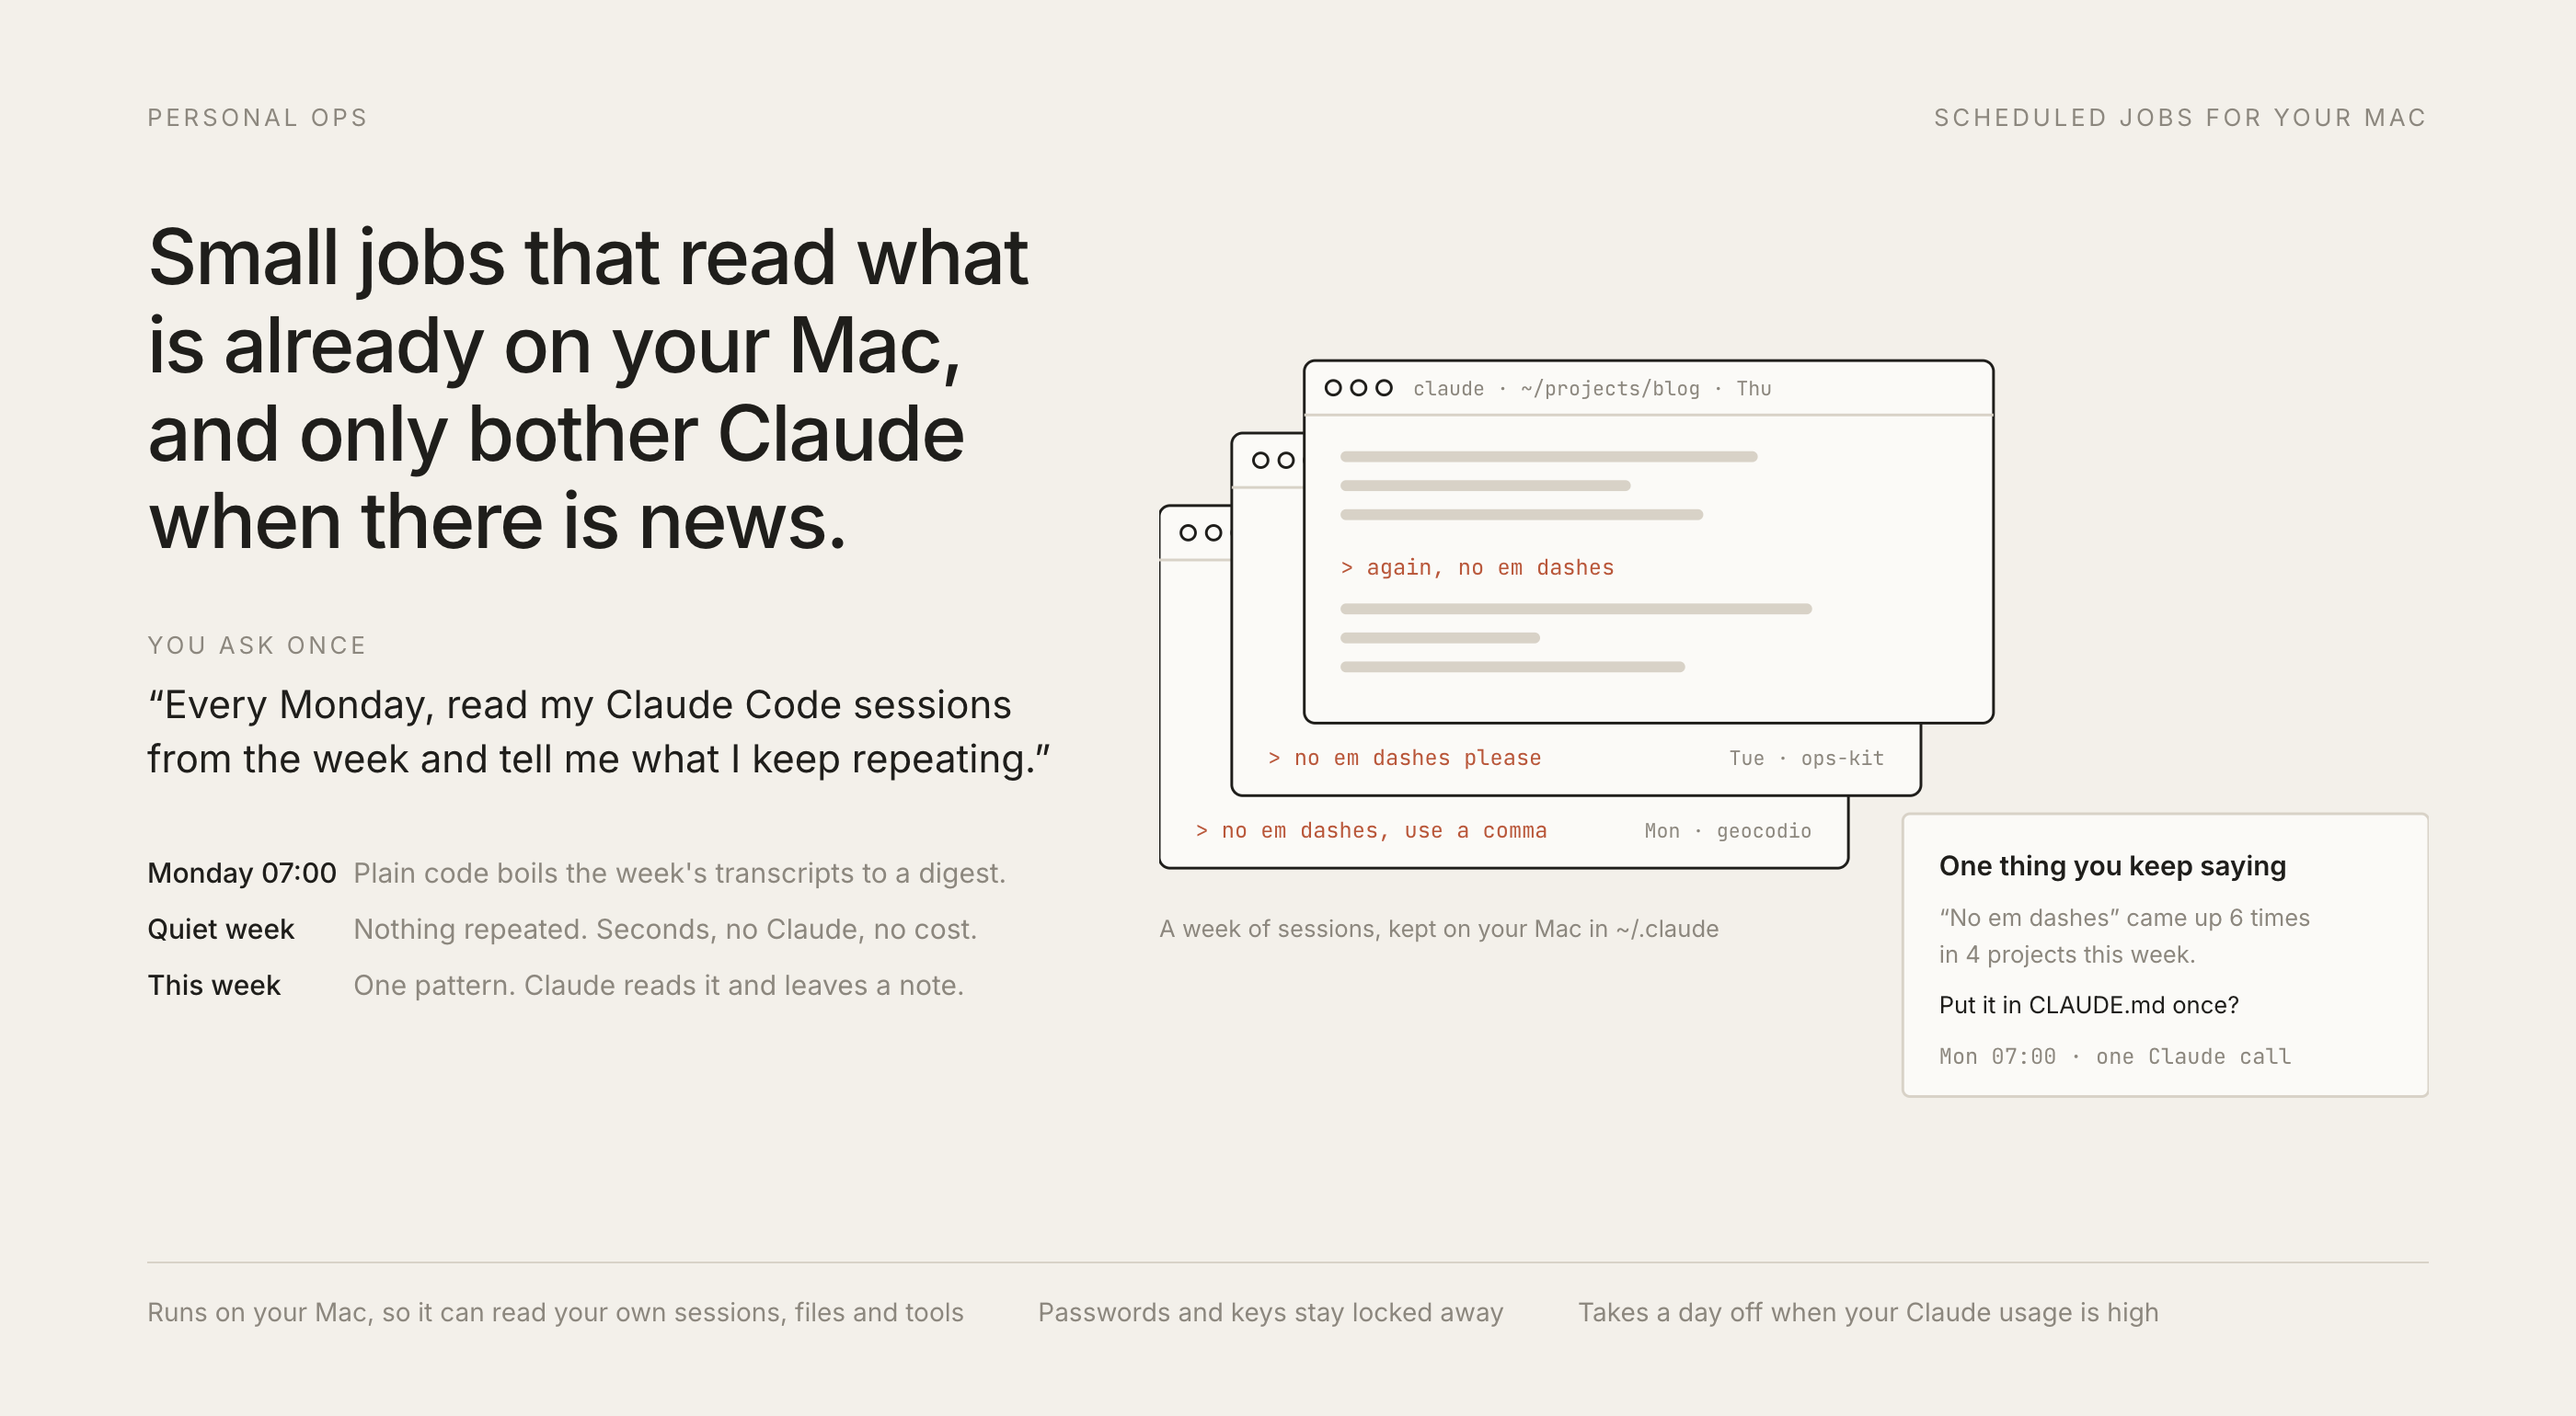
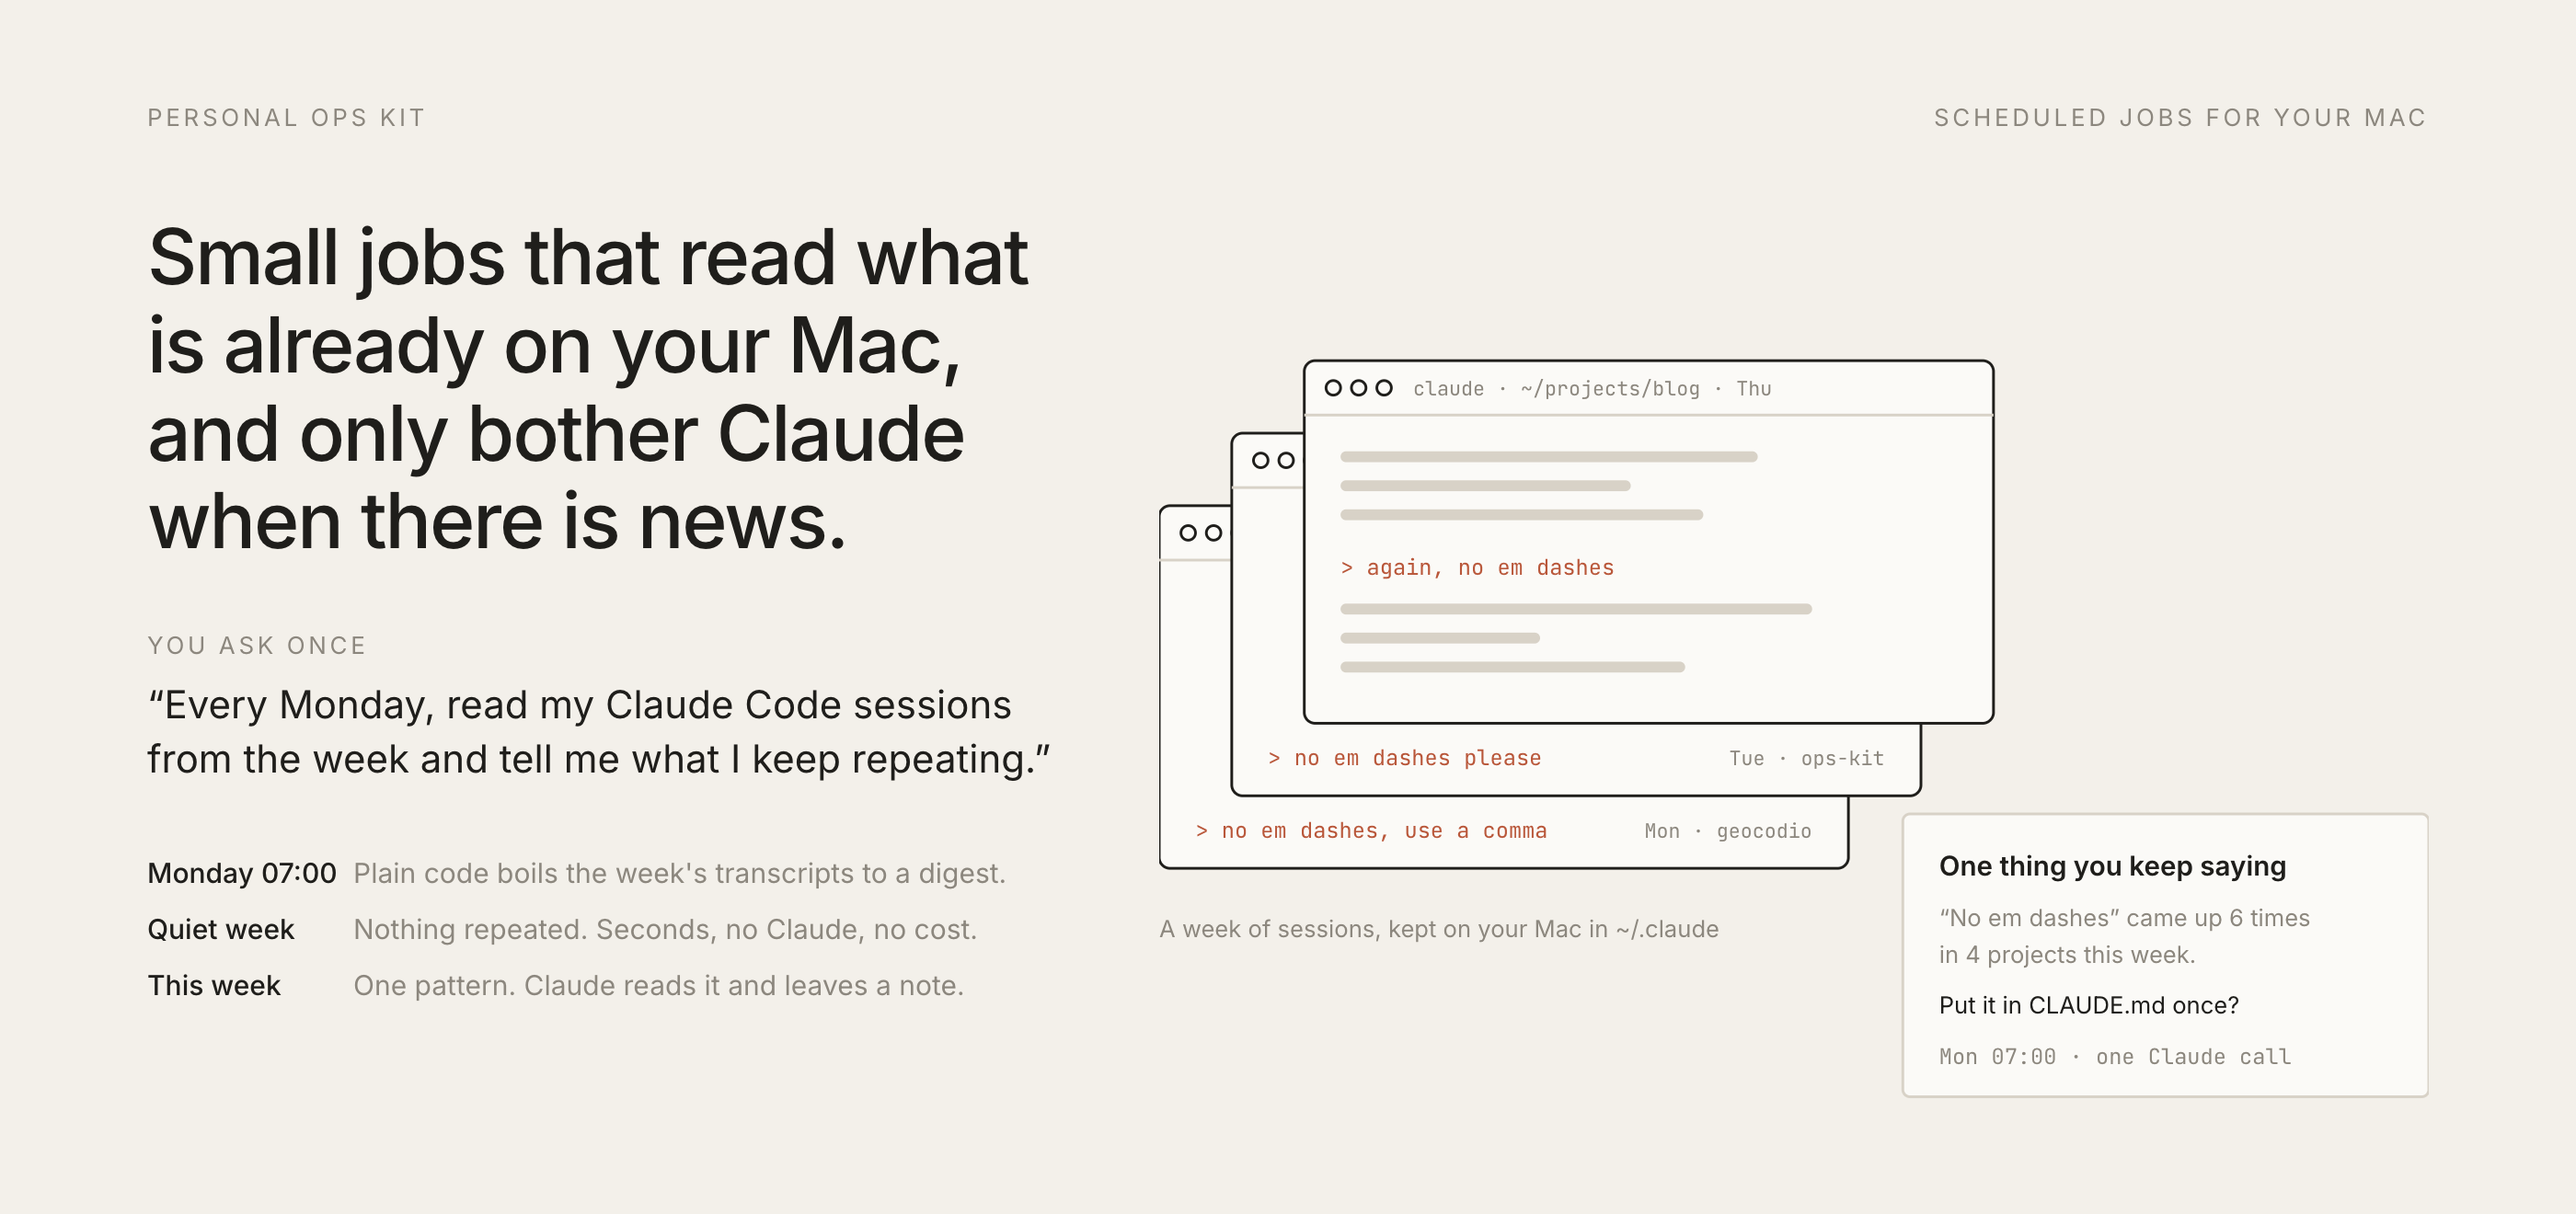
docs(readme): name the kit Personal Ops Kit and show the dashboard
The overview image now carries the kit's full name and drops the footer
captions, which were too small to read at README width. The README loses
its redundant heading, since the image opens the page, and gains a
dashboard screenshot under the after-install steps.

diff --git a/docs/overview.html b/docs/overview.html
@@ -1,7 +1,7 @@
 <!doctype html>
 <!-- Source for overview.png. Regenerate with:
      "/Applications/Google Chrome.app/Contents/MacOS/Google Chrome" --headless --hide-scrollbars \
-       --window-size=1400,770 --force-device-scale-factor=2 --virtual-time-budget=3000 \
+       --window-size=1400,660 --force-device-scale-factor=2 --virtual-time-budget=3000 \
        --screenshot=docs/overview.png docs/overview.html -->
 <html lang="en">
 <head>
@@ -10,7 +10,7 @@
 <style>
   :root { --paper:#F3F0EA; --card:#FBFAF7; --ink:#1F1E1B; --muted:#8C877E; --rule:#D8D2C7; --accent:#B9573A; }
   * { box-sizing:border-box; margin:0; }
-  html, body { width:1400px; height:770px; background:var(--paper); }
+  html, body { width:1400px; height:660px; background:var(--paper); }
   body { font-family:Inter, sans-serif; color:var(--ink); padding:56px 80px; -webkit-font-smoothing:antialiased; position:relative; }
   .top { display:flex; justify-content:space-between; font-size:13px; letter-spacing:.14em; text-transform:uppercase; color:var(--muted); }
   .grid { display:grid; grid-template-columns:520px 1fr; gap:30px; margin-top:44px; }
@@ -22,11 +22,10 @@
   svg { display:block; margin-top:8px; }
   svg text { font-family:Inter, sans-serif; }
   svg .mono { font-family:"JetBrains Mono", monospace; }
-  .foot { position:absolute; left:80px; right:80px; bottom:48px; display:flex; gap:40px; font-size:14px; color:var(--muted); border-top:1px solid var(--rule); padding-top:18px; }
 </style>
 </head>
 <body>
-  <div class="top"><span>personal ops</span><span>scheduled jobs for your Mac</span></div>
+  <div class="top"><span>Personal Ops Kit</span><span>scheduled jobs for your Mac</span></div>
   <div class="grid">
     <div>
       <h1>Small jobs that read what is already on your Mac, and only bother Claude when there is news.</h1>
@@ -89,10 +88,5 @@
     </svg>
   </div>
 
-  <div class="foot">
-    <span>Runs on your Mac, so it can read your own sessions, files and tools</span>
-    <span>Passwords and keys stay locked away</span>
-    <span>Takes a day off when your Claude usage is high</span>
-  </div>
 </body>
 </html>

diff --git a/README.md b/README.md
@@ -1,5 +1,3 @@
-# personal ops
-
 ![Ask once, and every Monday your Mac reads the week of Claude Code sessions stored on it. Three terminal windows each show the same correction, and Claude leaves a note: "No em dashes" came up 6 times in 4 projects, put it in CLAUDE.md once?](docs/overview.png)
 
 Scheduled jobs for your Mac, written with and run by Claude Code.
@@ -43,7 +41,7 @@ needed), puts the engine in `~/.personal-ops-kit`, copies the built-in jobs into
 `~/personal-ops`, starts a background service, and offers to install a Claude
 Code skill. Then open the dashboard at http://127.0.0.1:7777.
 
-Or just ask Claude Code: "install personal ops from github.com/MiniCodeMonkey/personal-ops-kit".
+Or just ask Claude Code: "install Personal Ops Kit from github.com/MiniCodeMonkey/personal-ops-kit".
 
 ## After installing
 
@@ -59,6 +57,8 @@ Or just ask Claude Code: "install personal ops from github.com/MiniCodeMonkey/pe
 4. **Pause anything you do not want** with `jobctl pause <job>`.
 5. **Make your first own job** by asking Claude Code for it (see
    [Add a job](#add-a-job)).
+
+![The dashboard: eleven jobs down the left, each with its schedule, next run and a strip of recent results, and an inbox of unread artifacts on the right, such as a meeting prep for tomorrow and a nightly research finding.](docs/dashboard.png)
 
 ## Built-in jobs
 
